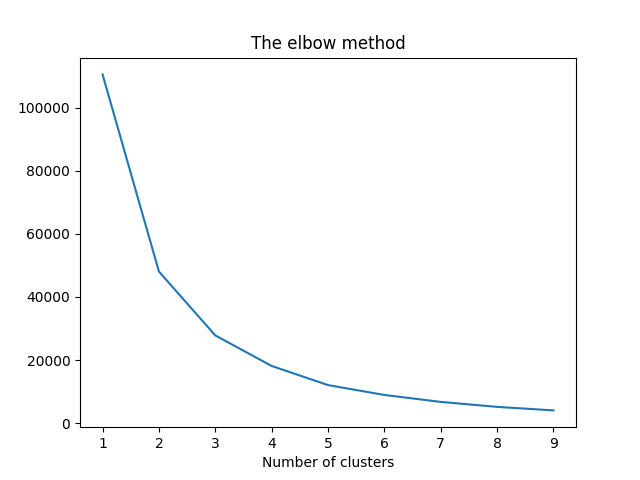
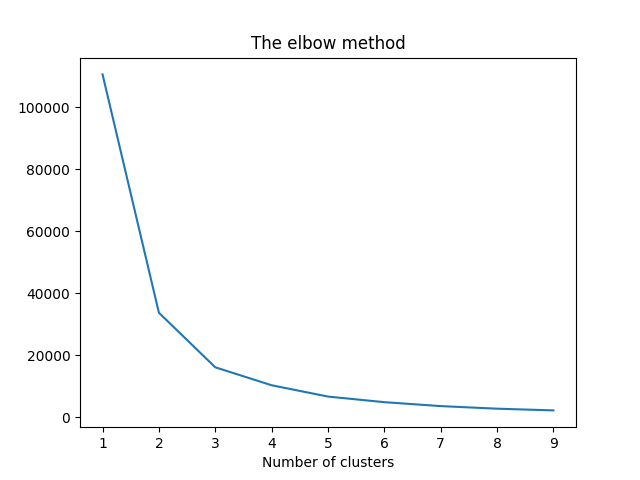
clusturing

diff --git a/data-analytics/ex04/elbow.py b/data-analytics/ex04/elbow.py
@@ -2,6 +2,7 @@ from sklearn.cluster import KMeans
 from sklearn.preprocessing import StandardScaler
 import matplotlib.pyplot as plt
 from utils.cnx import connect
+import numpy as np
 
 
 def clustring():
@@ -19,8 +20,9 @@ def clustring():
     cursor.close()
     cnx.close()
 
-    values = [row[1] for row in data]
-    x = [[value] for value in values]
+    freq = [row[0] for row in data]
+    x = np.array(freq).reshape(-1, 1)
+    print("Values retrieved from the database:", x, flush=True)
     scaler = StandardScaler()
     x_scaled = scaler.fit_transform(x)
     wcss = []
@@ -28,8 +30,9 @@ def clustring():
     for k in range(1, 10):
         kmeans = KMeans(n_clusters=k, random_state=0, n_init=10).fit(x_scaled)
         wcss.append(kmeans.inertia_)
+    print("WCSS values for k=1 to 10:", wcss, flush=True)
 
-    print("WCSS values for k=1 to 9:", wcss, flush=True)
+    # print("WCSS values for k=1 to 10:", wcss, flush=True)
     plt.plot(range(1, 10), wcss)
     plt.title('The elbow method')
     plt.xlabel('Number of clusters')

diff --git a/data-warehouse/ex01/customers_table.py b/data-warehouse/ex01/customers_table.py
@@ -34,7 +34,7 @@ def load():
         # call connect function
         cnx = connect()
         if cnx is None:
-            print("Connection to the database failed", flush=True, file=sys.stderr)
+            print("Connection to the database failed", flush=True)
             sys.exit(1)
         
         # execute the sql commands
@@ -49,13 +49,13 @@ def load():
         cursor.close()
         cnx.close()
     except FileNotFoundError as error:
-        print(f"File not found error: {error}", flush=True, file=sys.stderr)
+        print(f"File not found error: {error}", flush=True)
         sys.exit(1)
     except psycopg2.Error as error:
-        print(f"PostgreSQL error: {error}", flush=True, file=sys.stderr)
+        print(f"PostgreSQL error: {error}", flush=True)
         sys.exit(1)
     except Exception as error:
-        print(f"An error occurred: {error}", flush=True, file=sys.stderr)
+        print(f"An error occurred: {error}", flush=True)
         import traceback
         traceback.print_exc()
         sys.exit(1)

diff --git a/data-analytics/ex05/Clustering.py b/data-analytics/ex05/Clustering.py
@@ -1,0 +1,33 @@
+from utils.cnx import connect
+import matplotlib.pyplot as plt
+import numpy as np
+from sklearn.cluster import KMeans
+from sklearn.preprocessing import StandardScaler
+import pandas as pd
+
+
+
+def clustering():
+
+    try:
+        with open('Clustering.sql', 'r') as f:
+            data = f.read()
+
+        cnx = connect()
+        if cnx is None:
+            print("Failed to connect to the database.", flush=True)
+            return
+        cursor  = cnx.cursor()
+        cursor.execute(data)
+        data = cursor.fetchall()
+        cursor.close()
+
+        df = pd.DataFrame(data, columns=['user_id', 'frequency', 'monetary', 'recency'])
+        cnx.close()
+        print(df.head(), flush=True)
+    except Exception as e:
+        print(f"An error occurred: {e}", flush=True)
+
+
+if __name__ == "__main__":
+    clustering()

diff --git a/Data engineer/ex02/script/table.py b/Data engineer/ex02/script/table.py
@@ -1,5 +1,4 @@
 import psycopg2
-import pandas as pd
 from psycopg2 import sql
 
 # Database connection parameters

diff --git a/Data engineer/ex04/items.py b/Data engineer/ex04/items.py
@@ -1,5 +1,4 @@
 import psycopg2
-import pandas as pd
 from psycopg2 import sql
 
 # Database connection parameters

diff --git a/Data engineer/ex03/script.py b/Data engineer/ex03/script.py
@@ -1,5 +1,4 @@
 import psycopg2
-import pandas as pd
 from psycopg2 import sql
 import os
 
